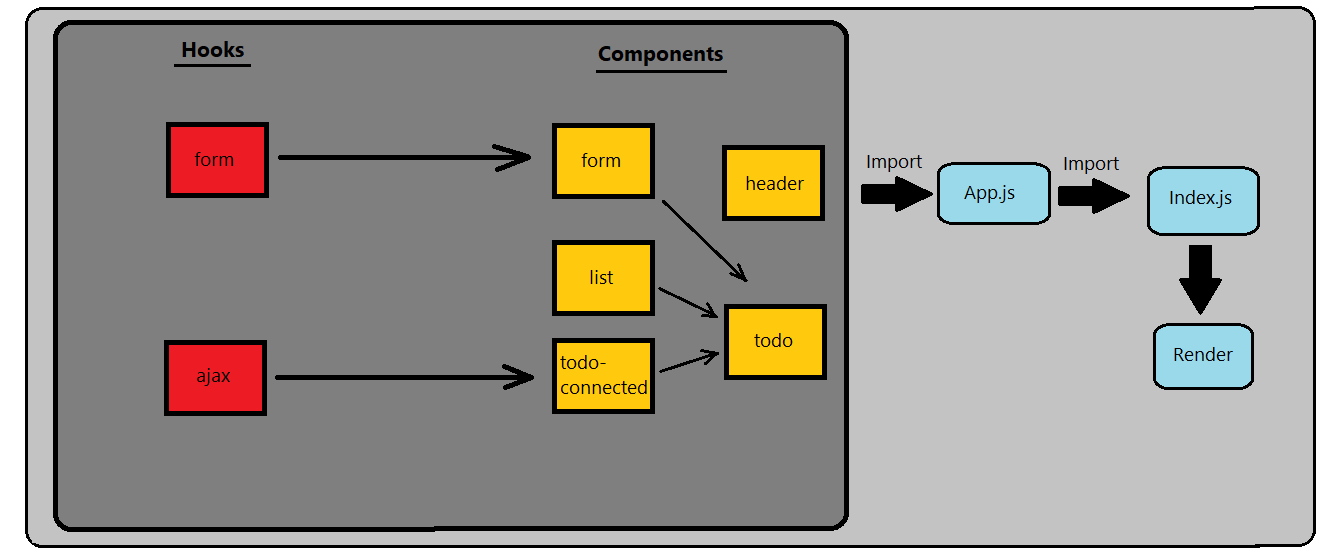
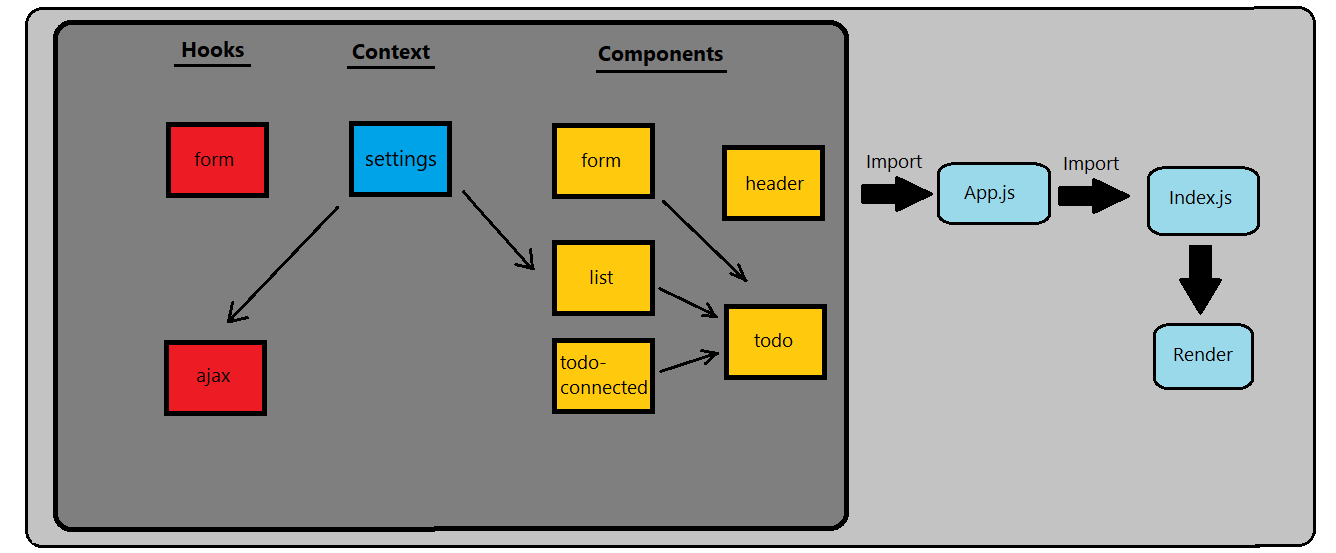
lab33

diff --git a/src/components/todo/list/index.js b/src/components/todo/list/index.js
@@ -1,10 +1,63 @@
-import React from 'react';
+import {useContext} from 'react';
 import Button from 'react-bootstrap/Button';
 import Form from 'react-bootstrap/Form';
 import FormControl from 'react-bootstrap/FormControl';
 import Card from 'react-bootstrap/Card';
+import {SettingsCon} from '../../../context/settings';
+
 
 function TodoList (props){
+
+const pagesSetting = useContext(SettingsCon)
+
+
+const screenDispaly = (e) =>{
+  pagesSetting.setSnum(parseInt(e.target.value));
+  pagesSetting.setPage(parseInt(e.target.value));
+}
+
+
+
+const pagnation = (e) =>{
+  let number = parseInt(e.target.innerHTML) * pagesSetting.sNum;
+  for(let i = 1; i < pagesSetting.num.length+1; i++){
+    document.getElementById(`${i}BTN`).style.backgroundColor = 'transparent'
+  }
+  document.getElementById(`${number/pagesSetting.sNum}BTN`).style.backgroundColor = 'blue'
+  pagesSetting.setPage(number)
+}
+const prevNext = (e) =>{
+  
+  if(e.target.id === 'prev'){
+    let number = ((pagesSetting.page/pagesSetting.sNum)-1)*pagesSetting.sNum;
+    if(number >= pagesSetting.sNum){
+      for(let i = 1; i < pagesSetting.num.length+1; i++){
+        document.getElementById(`${i}BTN`).style.backgroundColor = 'transparent'
+      }
+      document.getElementById(`${number/pagesSetting.sNum}BTN`).style.backgroundColor = 'blue'
+      pagesSetting.setPage(number);
+    } 
+  }else{
+    let number =((pagesSetting.page/pagesSetting.sNum)+1)*pagesSetting.sNum;
+    let num2 = pagesSetting.page/pagesSetting.sNum
+    if(num2 < pagesSetting.num.length){
+      for(let i = 1; i < pagesSetting.num.length+1; i++){
+        document.getElementById(`${i}BTN`).style.backgroundColor = 'transparent'
+      }
+      pagesSetting.setPage(number);
+      document.getElementById(`${number/pagesSetting.sNum}BTN`).style.backgroundColor = 'blue'
+    } 
+  }
+}
+
+  const showTask = ()=>{
+   let Arr = document.getElementsByClassName('complete-true')
+   for(let i = 0; i < Arr.length; i++){
+     if(Arr[i]) {
+      (Arr[i].style.display === 'flex') ? Arr[i].style.display = 'none' : Arr[i].style.display = 'flex';
+    }
+  }
+}
   const edit = (e)=>{
     e.preventDefault()
     let id = e.target.id.value;
@@ -26,35 +79,59 @@ function TodoList (props){
     (e.target.nextSibling.style.display === 'none')?e.target.nextSibling.style.display = 'flex':e.target.nextSibling.style.display = 'none'
   }
   return(
-          <ul>
-        {props.list.map((item,idx) => (
-          <li
-            className={`complete-${item?.complete.toString()}`}
-            key={item?._id || idx}
-          >
+    <>
+    <div style={{ display: 'flex' }}>
+    <Form style={{ border: '2px solid black' }}>
+    <Form.Label>
+     <span> Screen Display</span>
+      <FormControl onChange={screenDispaly} type="number" defaultValue="3"name="screenDis"/>
+      </Form.Label>
 
-            <Card border="primary" style={{ width: '25rem' }} onClick={() => props.handleComplete(item?._id)}>
-            <Card.Header as="h5" style={{display:"flex",justifyContent:"space-between"}} >
-              {item?.assignee}
-              <Button variant="secondary" id={item?._id} onClick={deleteItem}>x</Button>
-            </Card.Header>
-            <Card.Text as="h6">{item?.text}</Card.Text>
-              {item?.date}<br/>
-              {item?.difficulty}<br/>
-            </Card>
-              <Button onClick={showHide}>Edit</Button>
-              <Form style={{ display: "none" }} onSubmit={edit}>
-                <fieldset>
-                <FormControl type="hidden" name="id" defaultValue={item?._id}/>
-                <FormControl type="text" name="text" defaultValue={item?.text}/>
-                <FormControl type="text" name="assignee" placeholder="Assigned To"/>
-                <FormControl defaultValue="1" type="range" min="1" max="5" name="difficulty"/>
-                <Button type="submit">Edit</Button>
-                </fieldset>
-              </Form>
-          </li>
-        ))}
-      </ul>
+    </Form>
+
+    <button onClick={showTask}>Show Completed Tasks</button>
+
+    </div>
+    <ul>
+    {pagesSetting.pages.map((item,idx) => (
+      
+      <li
+        className={`complete-${item?.complete.toString()}`}
+        key={item?._id || idx}
+      >
+    
+        <Card border="primary" style={{ width: '32.5rem' }} onClick={() => props.handleComplete(item?._id)}>
+        <Card.Header as="h5" style={{display:"flex",justifyContent:"space-between"}} >
+          {item?.complete?<p className="comp">Completed</p>:<p className="pending">Pending</p>}
+          {item?.assignee}
+          <Button variant="secondary" id={item?._id} onClick={deleteItem}>x</Button>
+        </Card.Header>
+        <Card.Text as="h6">{item?.text}</Card.Text>
+          <p>{item?.date}</p><br/>
+          {item?.difficulty}<br/>
+        </Card>
+          <Button onClick={showHide}>Edit</Button>
+          <Form style={{ display: "none" }} onSubmit={edit}>
+            <fieldset>
+            <FormControl type="hidden" name="id" defaultValue={item?._id}/>
+            <FormControl type="text" name="text" defaultValue={item?.text}/>
+            <FormControl type="text" name="assignee" placeholder="Assigned To"/>
+            <FormControl defaultValue="1" type="range" min="1" max="5" name="difficulty"/>
+            <Button type="submit">Edit</Button>
+            </fieldset>
+          </Form>
+
+      </li>
+    ))}
+    </ul> 
+    <button onClick={prevNext} id="prev">Prev</button>
+    {pagesSetting.num.map((e,idx)=>{
+      
+      return(<button onClick={pagnation} key={idx} id={`${e}BTN`}> {e} </button>)
+    })}
+    <button onClick={prevNext} id="next">Next</button>
+
+    </>
   );
 }
 

diff --git a/src/hooks/ajax.js b/src/hooks/ajax.js
@@ -1,41 +1,46 @@
-import { useState } from "react";
+import { useState, useContext } from "react";
+import { SettingsCon }from '../context/settings';
 import axios from "axios";
 
 const useAjax = (cb) => {
+
   const todoAPI = "https://api-js401.herokuapp.com/api/v1/todo";
   const [list, setList] = useState([]);
+
+  const listSettings = useContext(SettingsCon);
+  
   const getMethod = () => {
     axios.get(todoAPI).then((data) => {
-        setList(data.data.results);
+      
+      listSettings.setList(data.data.results)
     });
   };
+
  const postMethod = (item) => {
     item.due = new Date();
     axios.post(todoAPI,item).then((savedItem)=>{
-      setList([...list,savedItem.data])
+      listSettings.setList([...listSettings.list,savedItem.data])
     })
   };
+  
   const putMethod = id => {
-    let item = list.filter(i => i._id === id)[0] || {};
+    let item = listSettings.list.filter(i => i._id === id)[0] || {};
     if (item._id) {
       item.complete = !item.complete;
       let url = `${todoAPI}/${id}`;
       axios.put(url,item).then((savedItem)=>{
-        setList(list.map(listItem => listItem._id === item._id ? savedItem.data : listItem));
+        listSettings.setList(listSettings.list.map(listItem => listItem._id === item._id ? savedItem.data : listItem));
       })
-}
+    }
   };
   const deleteMethod = id =>{
-    let item = list.filter(i => i._id === id)[0] || {};
+    let item = listSettings.list.filter(i => i._id === id)[0] || {};
     if (item._id) {
-
         item.complete = !item.complete;
-  
         let url = `${todoAPI}/${id}`;
-  
         axios.delete(url).then(()=>{
             axios.get(todoAPI).then((data) => {
-                return setList(data.data.results);
+                return listSettings.setList(data.data.results);
               });
         })
       }
@@ -43,10 +48,10 @@ const useAjax = (cb) => {
   const editMethod = (id,idx,item) => {
       let url = `${todoAPI}/${id}`;
       axios.put(url,item).then((updatedItem)=>{
-          list.splice(idx,1,updatedItem.data)
-          setList([...list]);
+        listSettings.list.splice(idx,1,updatedItem.data)
+        listSettings.setList([...listSettings.list]);
       })
   };
-return [list , getMethod , postMethod , putMethod , deleteMethod , editMethod]
+return [listSettings.list , getMethod , postMethod , putMethod , deleteMethod , editMethod]
 };
 export default useAjax;

diff --git a/src/context/settings.js b/src/context/settings.js
@@ -1,0 +1,32 @@
+import React, {useState} from 'react';
+
+export const SettingsCon = React.createContext();
+function SettingsProv(props){
+    const [list , setList] = useState([]);
+    const [page , setPage] = useState(3);
+    const [sNum , setSnum] = useState(3);
+    
+    const state ={
+        list : list.sort((a,b)=>a.difficulty - b.difficulty),
+        setList,
+        page,
+        setPage,
+        sNum,
+        setSnum,
+        pages: list.slice(page-sNum,page),
+        num:gg()
+    }
+    function gg (){
+        let numArr = [];
+        for(let i = 0 ; i < Math.ceil(list.length/sNum); i++){
+            numArr.push( i + 1 )
+        }
+        return numArr;
+    }
+    return(
+        <SettingsCon.Provider value = {state}>
+            {props.children}
+        </SettingsCon.Provider>
+    );
+}
+export default SettingsProv;

diff --git a/src/components/todo/form/index.js b/src/components/todo/form/index.js
@@ -7,7 +7,7 @@ import useForm from '../../../hooks/form';
 
 function TodoForm(props) {
   const [item,setItem] = useState({});
-  console.log(item)
+  // console.log(item)
   const textControl = useForm('text','text','Add To Do List Item');
   const difficultyControl = useForm('difficulty','range','' , 1 , 5 ,1);
   const assigneeControl = useForm('assignee','text','Assigned To');

diff --git a/src/components/todo/todo/todo.scss b/src/components/todo/todo/todo.scss
@@ -99,4 +99,17 @@ body, html {
 
         }
     }
+    .comp{
+        background-color: red;
+        padding: 0.4rem;
+        border-radius: 15px;
+    }
+    .complete-true{
+        display: none;
+    }
+    .pending{
+        background-color: green;
+        padding: 0.4rem;
+        border-radius: 15px;
+    }
 }

diff --git a/src/index.js b/src/index.js
@@ -2,10 +2,12 @@ import React from 'react';
 import ReactDOM from 'react-dom';
 import App from './app.js';
 import 'bootstrap/dist/css/bootstrap.min.css';
-
+import SettingsProv from './context/settings';
 function Main (){
   return(
-    <App/>
+    <SettingsProv>
+      <App/>
+    </SettingsProv>
   );
 }
 

diff --git a/README.md b/README.md
@@ -1,7 +1,7 @@
 # todo
-To Do List Manager Phase 2: Connecting the To Do Application to an external API and Database.
+To Do List Manager Phase 3: Add some configuration settings to the application
 <br>
-[Pull Request](https://github.com/hamzashamoun96/todo/pull/6)<br>
+[Pull Request](https://github.com/hamzashamoun96/todo/pull/7)<br>
 [Netlify](https://ham-todo.netlify.app/)<br>
 
 ## UML
